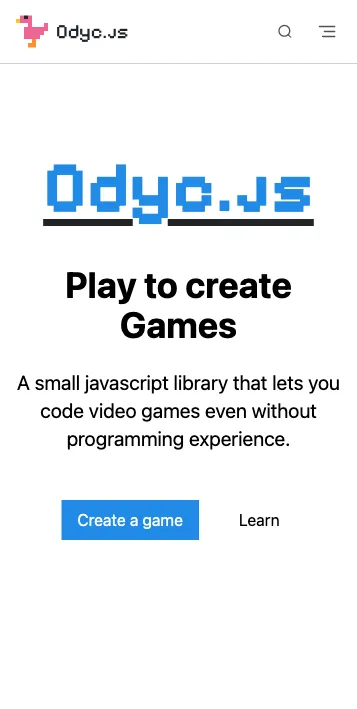
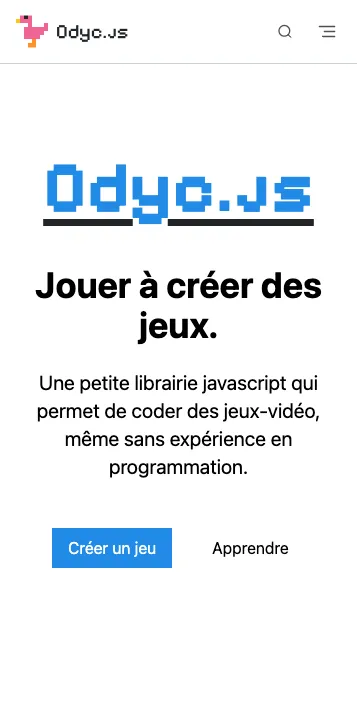
Update odyc.md

Changed region(s): [[0.0308, 0.5275, 0.9552, 0.8068], [0.0924, 0.3724, 0.8936, 0.4965], [0.5854, 0.7137, 0.8011, 0.8068]]

diff --git a/data/sites/odyc.md b/data/sites/odyc.md
@@ -1,8 +1,8 @@
 ---
 title: Odyc.js
-url: https://odyc.dev
+url: https://odyc.dev/fr
 priority: 7
 ---
 
-[Odyc.js](https://odyc.dev) est une petite librairie JavaScript conçue pour créer des jeux narratifs en combinant pixels, sons, textes et interactions, avec une syntaxe ultra simple. Chaque jeu peut tenir dans un seul fichier, en appelant une fonction unique : createGame(). L’interface permet de définir cartes, dialogues, sprites, filtres visuels et effets sonores, avec une logique événementielle minimale.
+[Odyc.js](https://odyc.dev/fr) est une petite librairie JavaScript conçue pour créer des jeux narratifs en combinant pixels, sons, textes et interactions, avec une syntaxe ultra simple. Chaque jeu peut tenir dans un seul fichier, en appelant une fonction unique : createGame(). L’interface permet de définir cartes, dialogues, sprites, filtres visuels et effets sonores, avec une logique événementielle minimale.
 Léger, expressif et entièrement personnalisable, Odyc.js est idéal pour les game jams, les jeux expérimentaux ou les récits interactifs.
